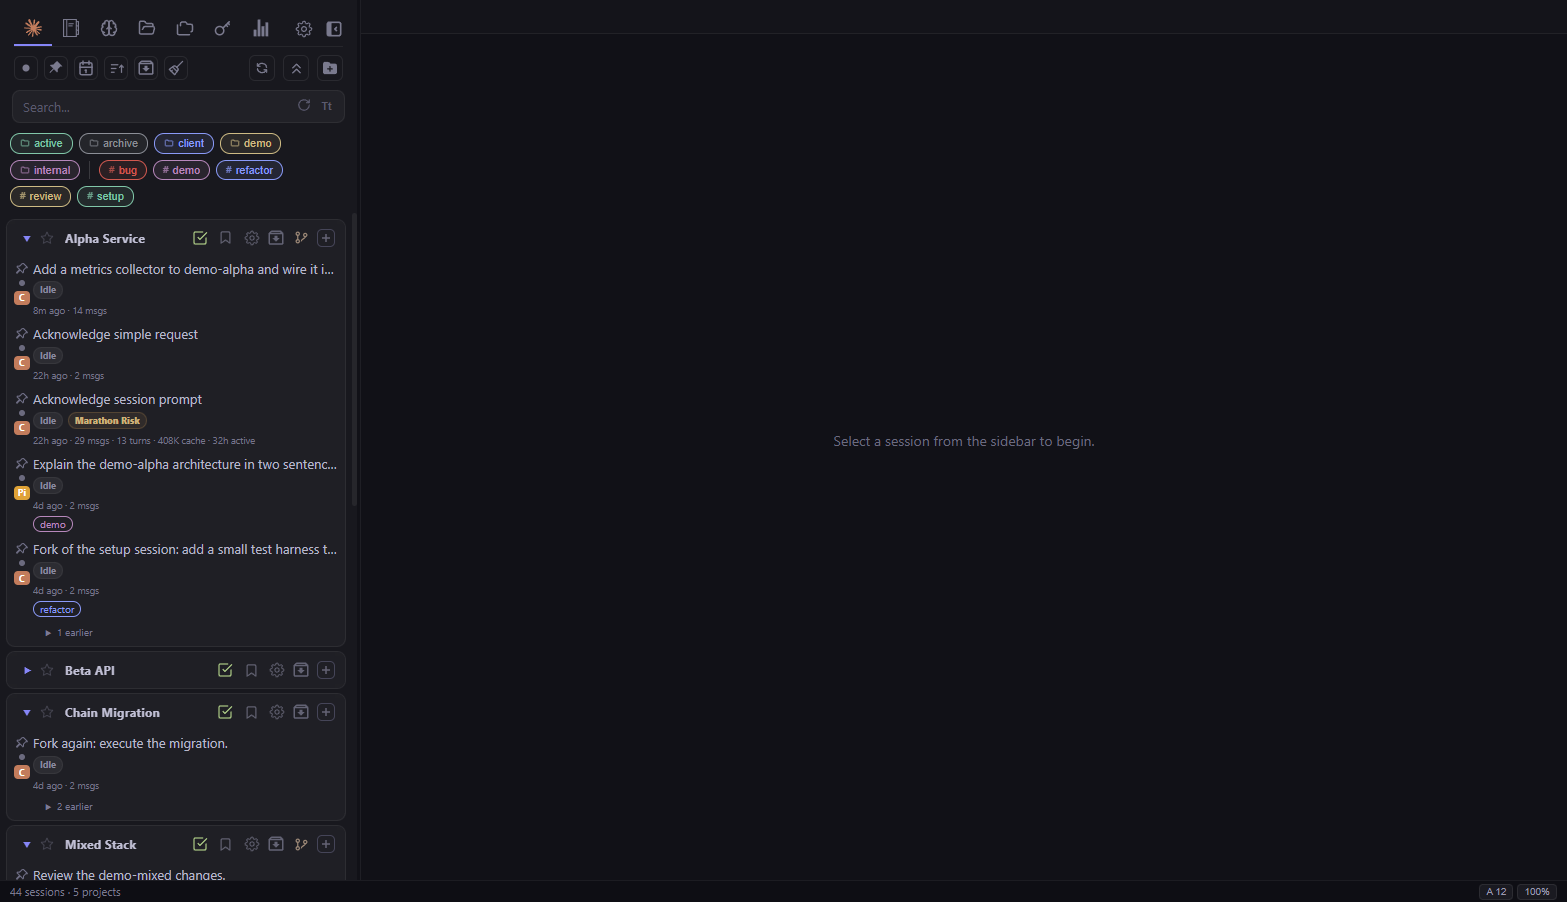
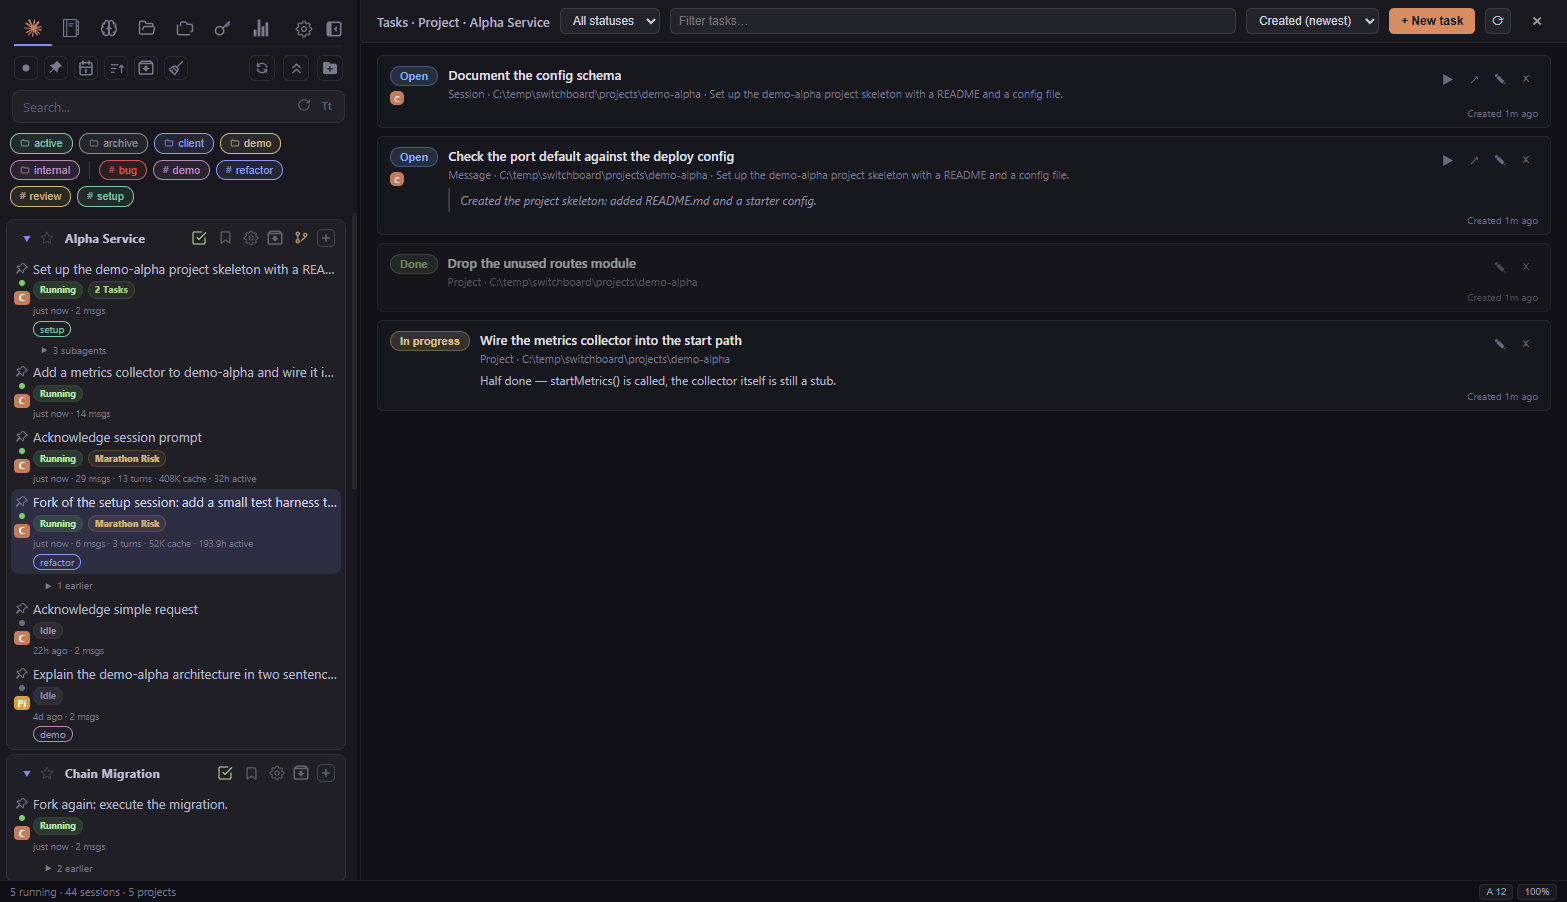
docs: add the IDE emulation screenshot, retake the task list
IDE emulation was the one advertised feature the README described
without showing. The panel only renders when the session tab is open
as the edit arrives, which is why the first pass came back empty.

The task list is retaken because the old shot showed the scope bug
fixed in the previous commit — every task read "Message", including
the project-scoped ones.

diff --git a/README.md b/README.md
@@ -129,6 +129,15 @@ Staged, unstaged and untracked, grouped and counted; a rename as `old → new`; 
 diff expands inline. A diff over ~200 lines offers **Open in window** — side by side in a CodeMirror
 view with syntax highlighting.
 
+## IDE emulation
+
+![IDE emulation](docs/images/ide-diff.png)
+
+Switchboard registers itself as an IDE for the Claude CLI, so a proposed edit lands in a side panel
+next to the terminal instead of being sent to an external editor. Review it inline or side by side,
+accept or reject whole files or individual chunks, or edit the result before it is applied. Switch it
+off in the settings and the CLI goes back to discovering your real editor.
+
 ## Projects
 
 ![Projects](docs/images/projects.png)